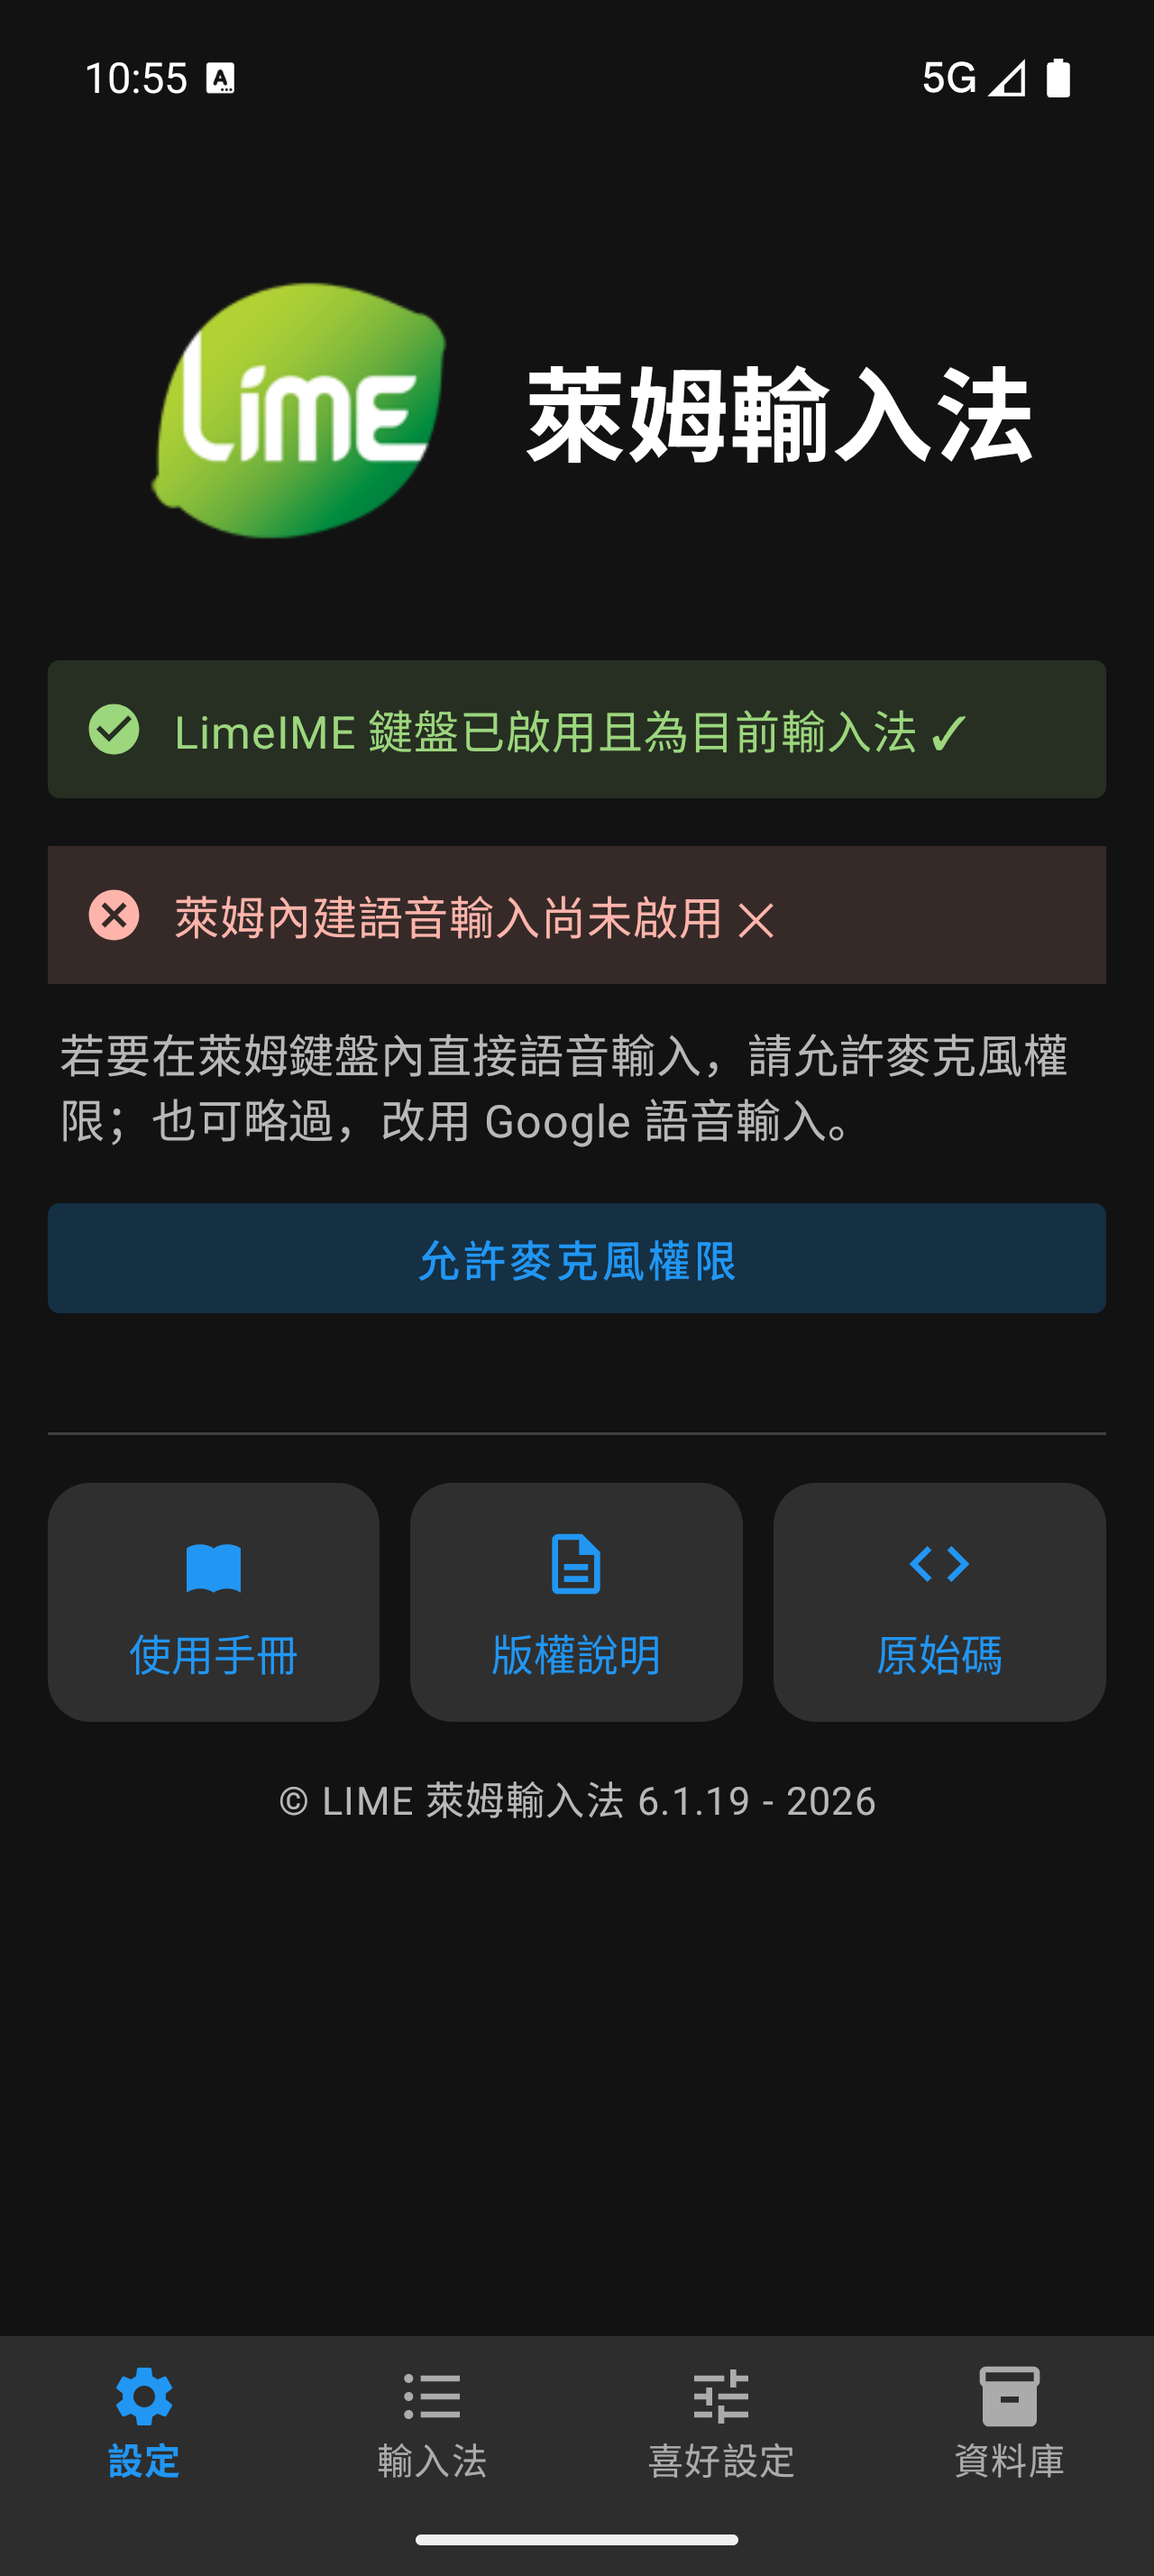
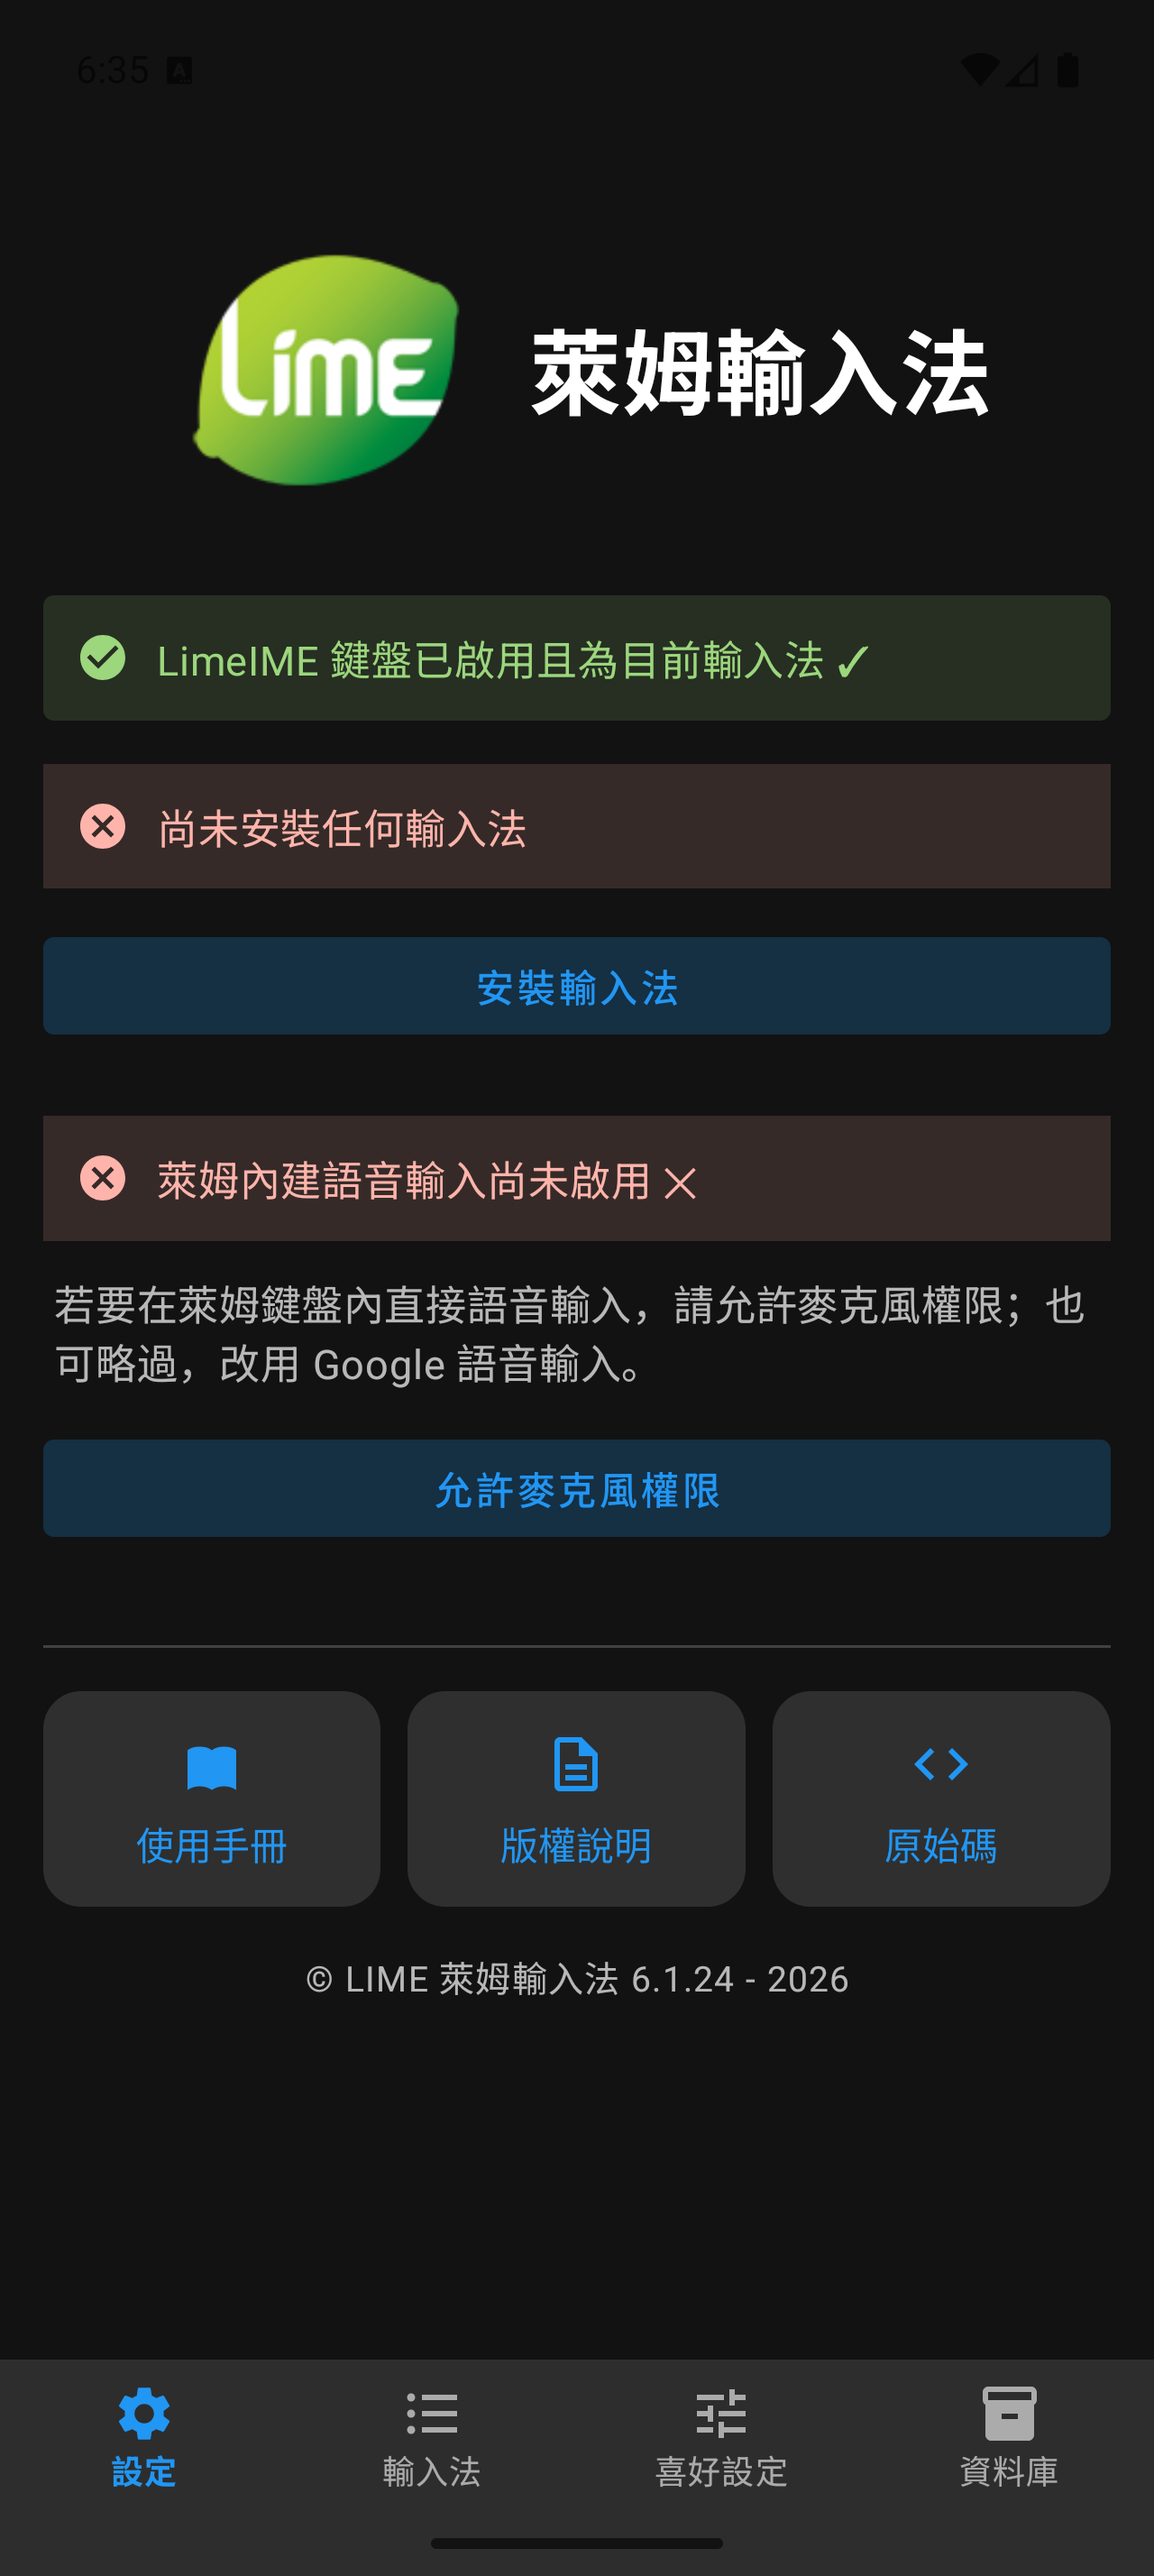
docs: add §4.3 / §5.1.1 screenshots and update quick-start manual
- Capture iOS + Android empty IM-list page (§5.1.1, light + dark) and the
  updated 設定-tab shots showing the new §4.3 installed-IM status section.
  Setup shots now use the green activation banner.
- LIME_SETTINGS.md §5.1.1: add the dark-mode empty-state screenshot row.
- quick-start (.html + .md): document the §4.3 status banner and the
  §5.1.1 empty-state page + FAB nudge; refresh setup captions.
- Copy the new/updated assets into docs/assets/shots/ for the manual.

diff --git a/docs/pages/quick-start.html b/docs/pages/quick-start.html
@@ -103,18 +103,37 @@
       <div class="shot">
         <div class="cap"><span class="pf"><svg viewBox="0 0 24 24" width="11" height="11" fill="currentColor" style="vertical-align:-1px;margin-right:4px"><path d="M6 9h12v8a1 1 0 0 1-1 1h-1v3h-2v-3h-4v3H8v-3H7a1 1 0 0 1-1-1V9zm-3 .5a1.5 1.5 0 0 1 3 0v5a1.5 1.5 0 0 1-3 0v-5zm15 0a1.5 1.5 0 0 1 3 0v5a1.5 1.5 0 0 1-3 0v-5zM7.5 7.8C7.8 5.4 9.7 3.6 12 3.6s4.2 1.8 4.5 4.2H7.5zM10 5.6a.6.6 0 1 0 0 1.2.6.6 0 0 0 0-1.2zm4 0a.6.6 0 1 0 0 1.2.6.6 0 0 0 0-1.2z"/></svg>Android</span>設定分頁</div>
         <div class="shot-frame"><img data-dark="../assets/shots/lime_settings_android_setup_dark.png" class="themed" src="../assets/shots/lime_settings_android_setup.png" alt="Android 設定分頁"/></div>
-        <p class="ph-note">Android「設定」分頁，依目前狀態顯示對應按鈕。橙色橫幅代表已啟用但尚未切換為萊姆輸入法，照著畫面指示完成「選用萊姆輸入法」即可。</p>
+        <p class="ph-note">Android「設定」分頁。完成「選用萊姆輸入法」後，橫幅轉為綠色「鍵盤已啟用且為目前輸入法」。橫幅會依目前狀態自動更新——綠色＝已啟用且為目前輸入法，橙色＝已啟用但尚未切換，紅色＝尚未啟用。</p>
       </div>
     </div>
 
+    <div class="manual-note">
+      <span class="ti">i</span>
+      <div><b>「設定」分頁也會提醒你安裝輸入法</b>啟用鍵盤後，「設定」分頁會多出一條輸入法狀態橫幅：尚未安裝任何輸入法時顯示紅色「尚未安裝任何輸入法」與「安裝輸入法」按鈕，點按即可直接跳到「輸入法」分頁。已安裝但全部停用時顯示橙色提醒；至少有一套已啟用時顯示綠色「已安裝 N 個輸入法」。</div>
+    </div>
+
     <h2 id="first-im">下載第一套輸入法</h2>
-    <p>啟用鍵盤後，還需要至少一套輸入法才能打字。切換到「輸入法」分頁，點按右下角的「＋」進入下載與匯入畫面。</p>
+    <p>啟用鍵盤後，還需要至少一套輸入法才能打字。切換到「輸入法」分頁——尚未安裝時會看到鍵盤圖示的空白頁與「尚未安裝任何輸入法」說明，右下角的「＋」會以脈衝動畫與「安裝輸入法」小標提示你從這裡開始。點按「＋」進入下載與匯入畫面。</p>
     <ol class="steps">
-      <li><strong>開啟「輸入法」分頁</strong>點按底部的「輸入法」分頁，再點右下角的「＋」。</li>
+      <li><strong>開啟「輸入法」分頁</strong>點按底部的「輸入法」分頁，再點右下角發亮的「＋」（也可從「設定」分頁的「安裝輸入法」按鈕直接進入）。</li>
       <li><strong>展開想要的輸入法</strong>例如點開「注音」，內建輸入法會列出雲端字根下載與本機匯入的選項。</li>
       <li><strong>從雲端下載或匯入檔案</strong>點選要下載的雲端字根（例如「OpenVanilla 注音字根」），或選「匯入 .cin／.lime」「匯入 .limedb」匯入自有碼表。</li>
       <li><strong>回到清單啟用</strong>下載完成後，輸入法會出現在清單中，開啟開關即可在鍵盤上使用。</li>
     </ol>
+
+    <div class="manual-screenshot-pair">
+      <div class="shot">
+        <div class="cap"><span class="pf"><svg viewBox="0 0 24 24" width="11" height="11" fill="currentColor" style="vertical-align:-1px;margin-right:4px"><path d="M16.5 1.6c.1 1-.3 2-1 2.8-.7.8-1.8 1.4-2.8 1.3-.1-1 .4-2 1-2.7.7-.8 1.9-1.3 2.8-1.4zM19.9 17c-.5 1.2-.8 1.7-1.5 2.7-.9 1.4-2.2 3.1-3.8 3.1-1.4 0-1.8-.9-3.7-.9-1.9 0-2.3.9-3.7.9-1.6 0-2.8-1.5-3.7-2.9C.9 16.5.6 12 2.2 9.6c1-1.6 2.7-2.5 4.3-2.5 1.6 0 2.6 1 3.9 1 1.3 0 2-.9 3.9-1 1.4 0 2.9.8 3.9 2.1-3.5 1.9-2.9 6.9 1.8 7.8z"/></svg>iPhone / iPad</span>輸入法分頁 · 尚未安裝</div>
+        <div class="shot-frame"><img data-dark="../assets/shots/lime_settings_ios_im_list_empty_dark.png" class="themed" src="../assets/shots/lime_settings_ios_im_list_empty.png" alt="iPhone 輸入法分頁，尚未安裝任何輸入法的空白頁與發亮的＋按鈕"/></div>
+        <p class="ph-note">尚未安裝任何輸入法時的空白頁，右下角的「＋」會以動畫提示。</p>
+      </div>
+      <div class="shot">
+        <div class="cap"><span class="pf"><svg viewBox="0 0 24 24" width="11" height="11" fill="currentColor" style="vertical-align:-1px;margin-right:4px"><path d="M6 9h12v8a1 1 0 0 1-1 1h-1v3h-2v-3h-4v3H8v-3H7a1 1 0 0 1-1-1V9zm-3 .5a1.5 1.5 0 0 1 3 0v5a1.5 1.5 0 0 1-3 0v-5zm15 0a1.5 1.5 0 0 1 3 0v5a1.5 1.5 0 0 1-3 0v-5zM7.5 7.8C7.8 5.4 9.7 3.6 12 3.6s4.2 1.8 4.5 4.2H7.5zM10 5.6a.6.6 0 1 0 0 1.2.6.6 0 0 0 0-1.2zm4 0a.6.6 0 1 0 0 1.2.6.6 0 0 0 0-1.2z"/></svg>Android</span>輸入法分頁 · 尚未安裝</div>
+        <div class="shot-frame"><img data-dark="../assets/shots/lime_settings_android_im_list_empty_dark.png" class="themed" src="../assets/shots/lime_settings_android_im_list_empty.png" alt="Android 輸入法分頁，尚未安裝任何輸入法的空白頁與發亮的＋按鈕"/></div>
+        <p class="ph-note">Android 同樣會以空白頁與發亮的「＋」引導你安裝第一套輸入法。</p>
+      </div>
+    </div>
+
     <div class="manual-note">
       <span class="ti">i</span>
       <div><b>支援的輸入法</b>注音、倉頡（含五代與香港字）、速成、快倉、大易、行列與行列 10、拼音、華象直覺、輕鬆、筆順五碼，以及自建輸入法。完整清單見「<a href="ime-management.html">管理輸入法</a>」。</div>

diff --git a/docs/LIME_SETTINGS.md b/docs/LIME_SETTINGS.md
@@ -641,6 +641,7 @@ being empty and disappears once the first IM is installed.
 | iOS | Android |
 |---|---|
 | ![iPhone 17 Pro Max simulator screenshot of the empty IM list with FAB nudge](assets/lime_settings_ios_im_list_empty.png) | ![Android emulator screenshot of the empty IM list with FAB nudge](assets/lime_settings_android_im_list_empty.png) |
+| ![iPhone 17 Pro Max simulator dark-mode screenshot of the empty IM list with FAB nudge](assets/lime_settings_ios_im_list_empty_dark.png) | ![Android emulator dark-mode screenshot of the empty IM list with FAB nudge](assets/lime_settings_android_im_list_empty_dark.png) |
 
 **Placeholder** (centered, in place of the IM rows):
 
